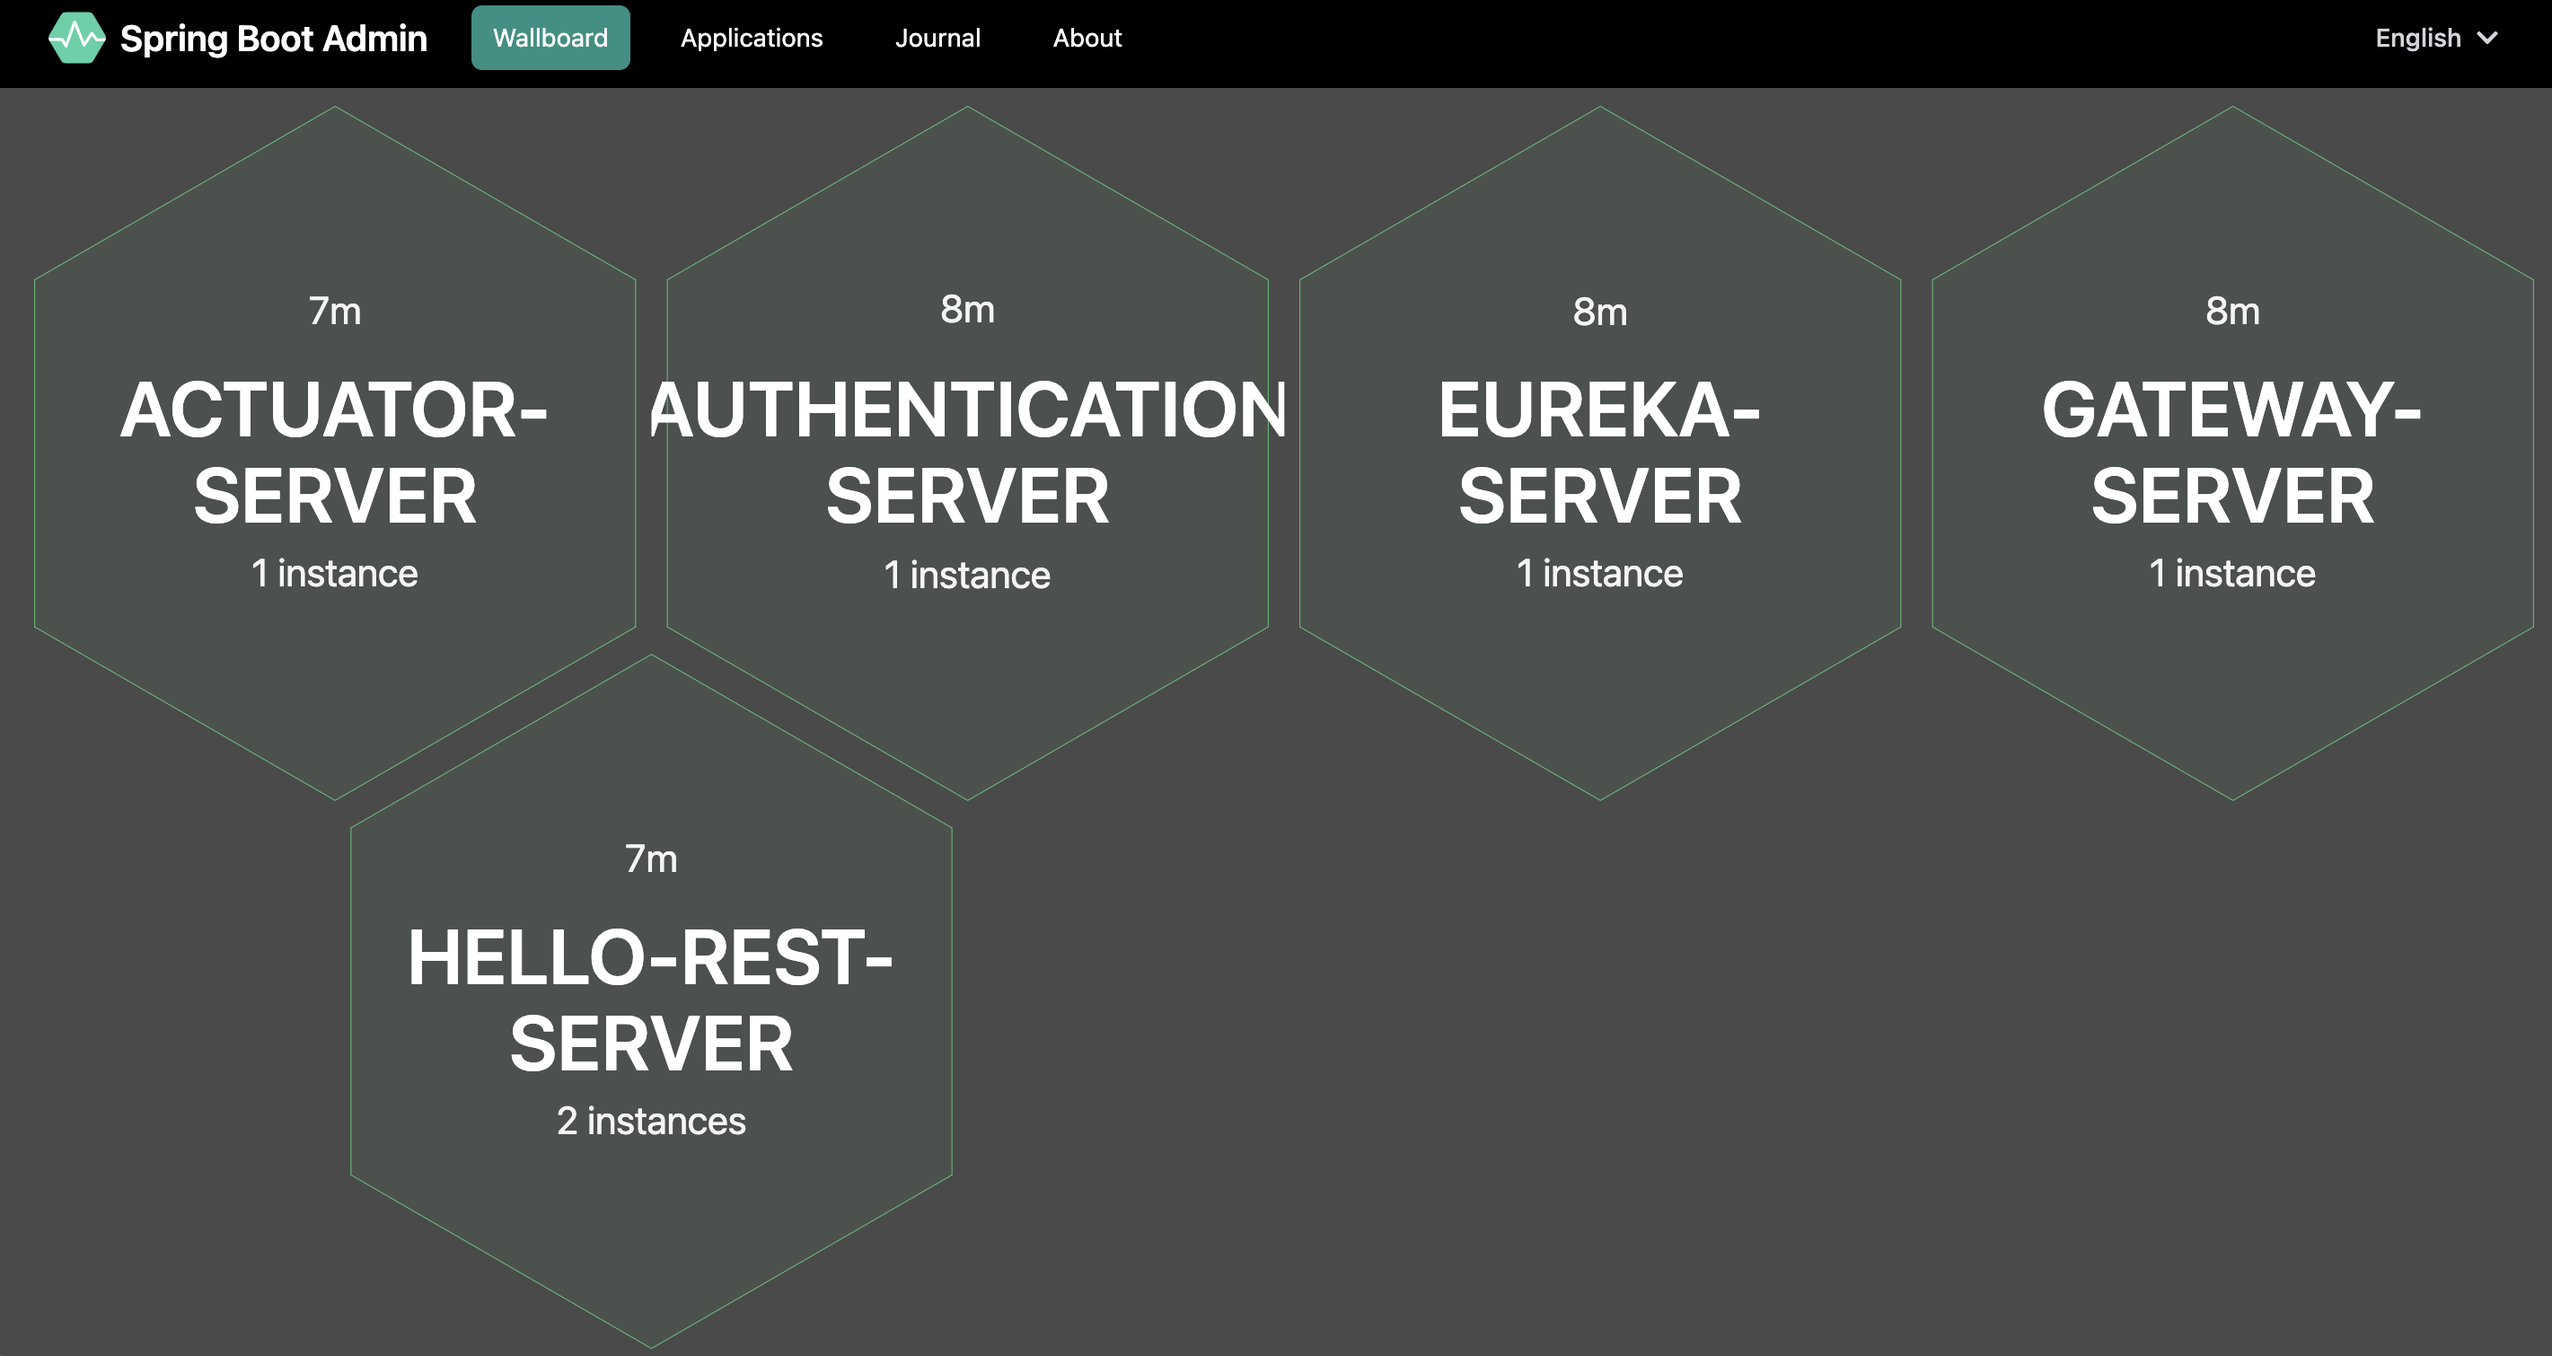
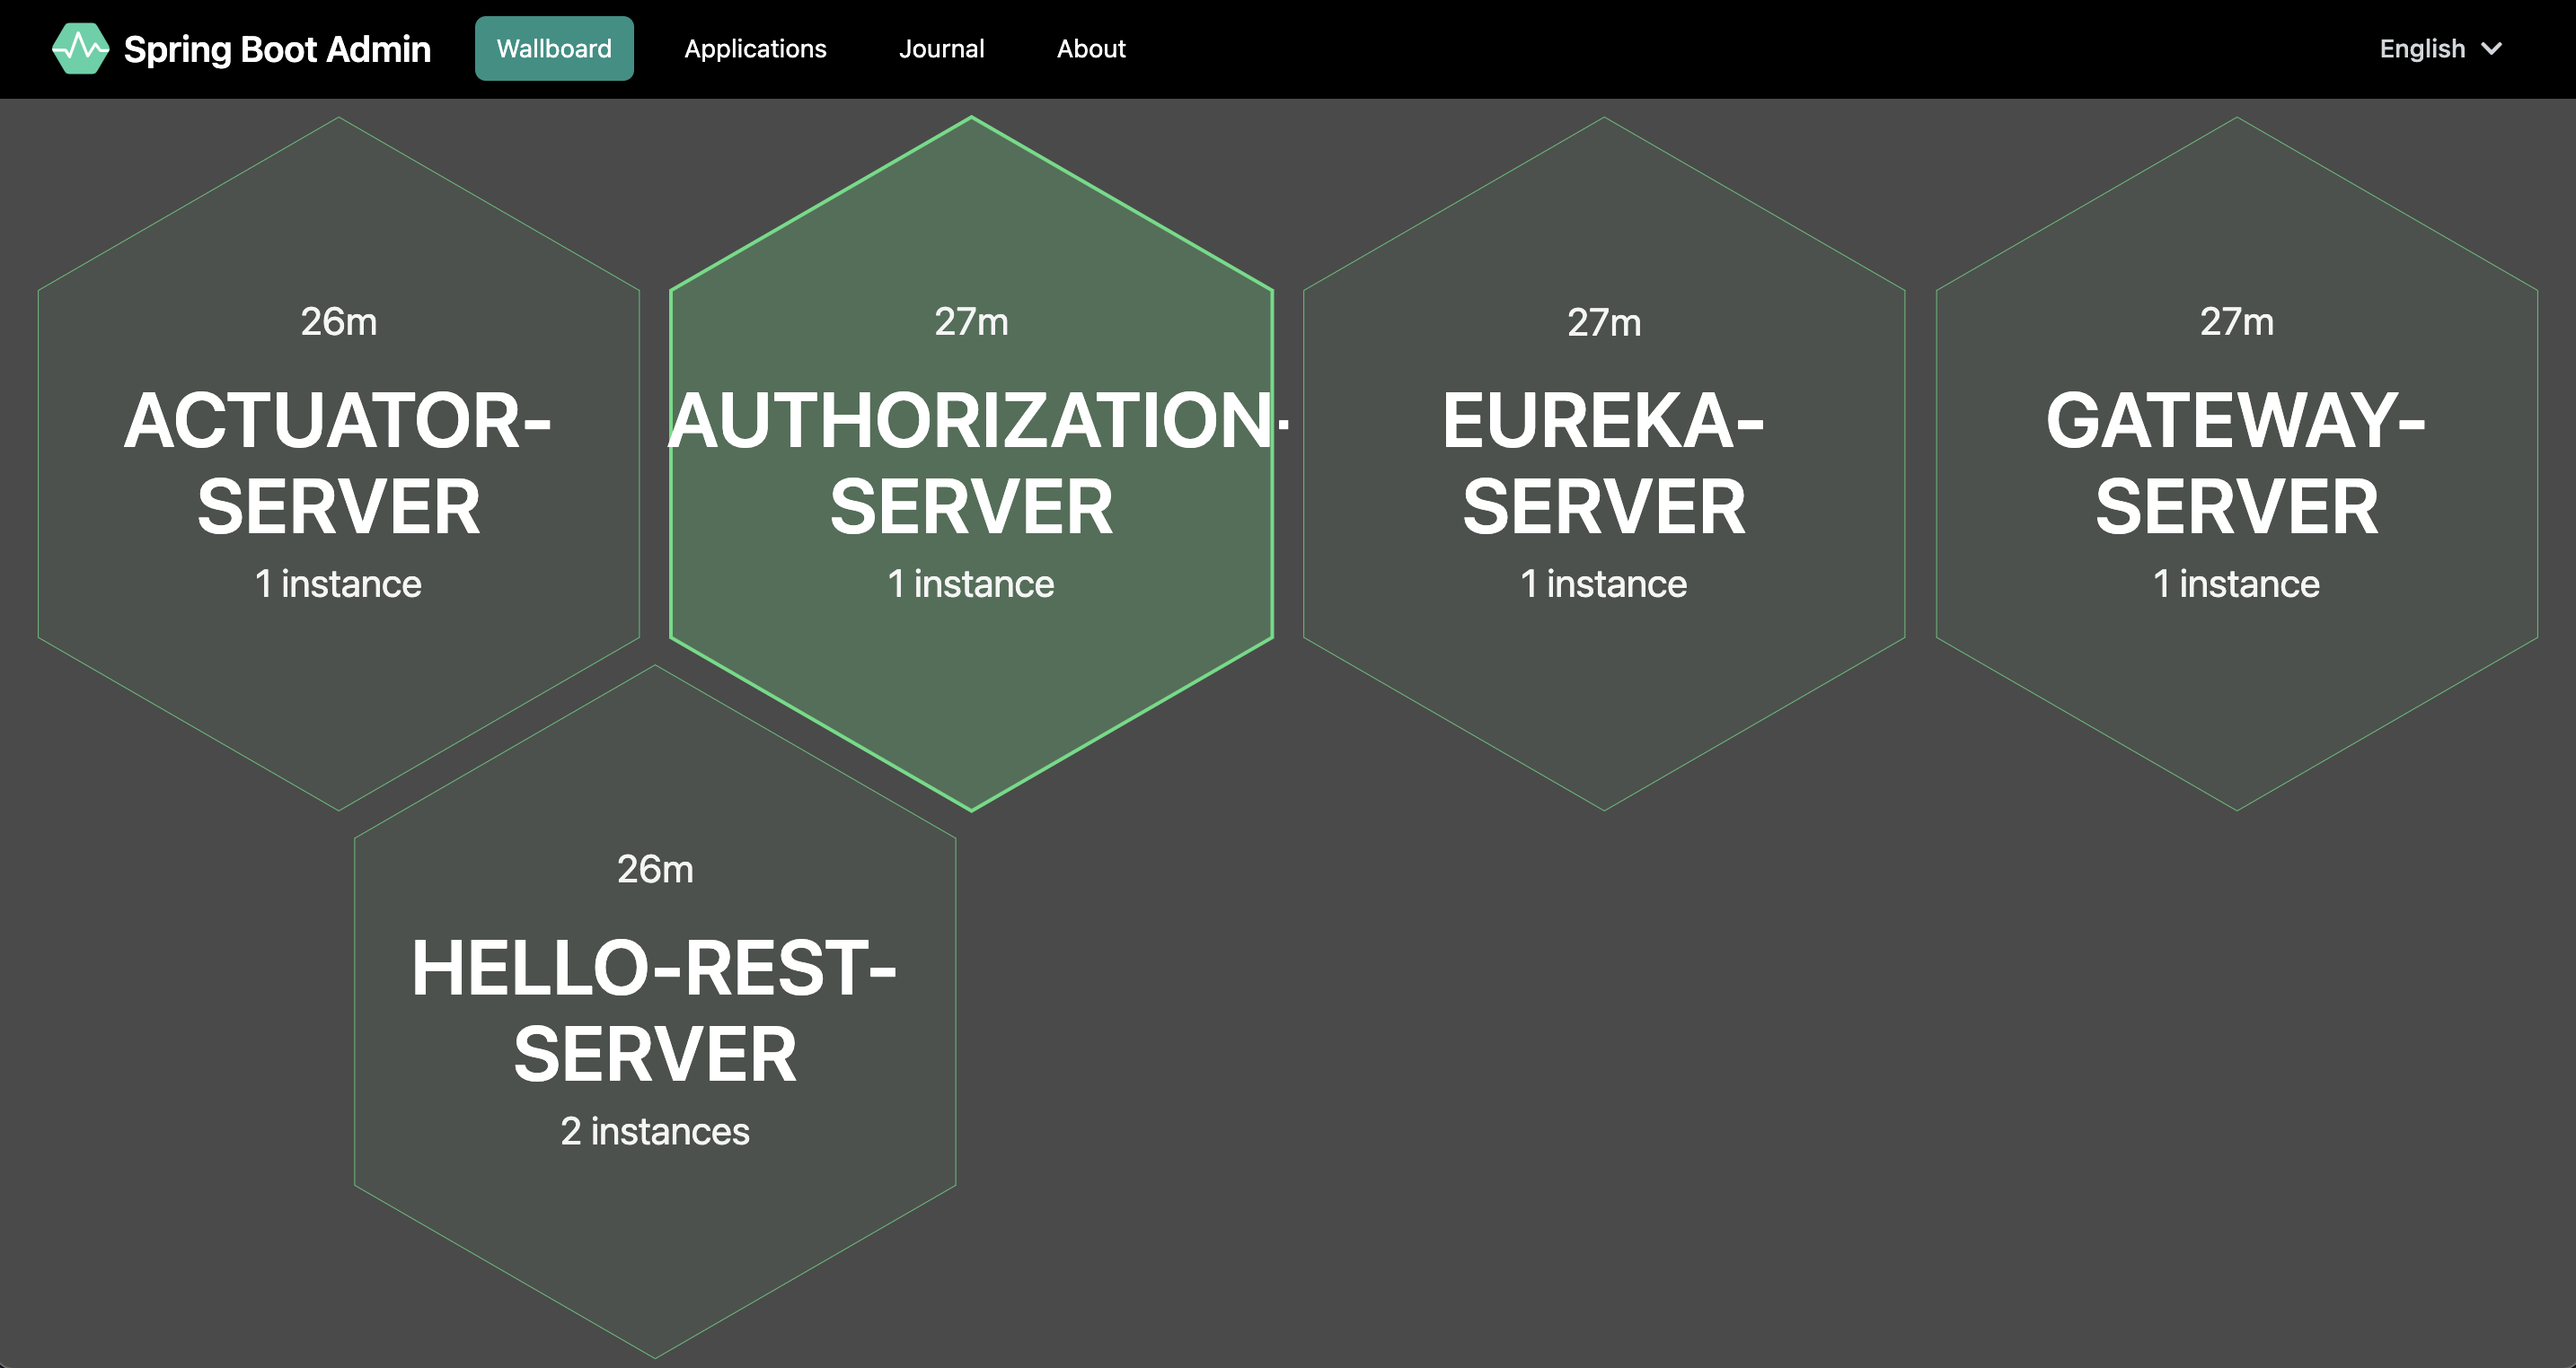
Update Authentication Server

diff --git a/authorization-server/src/main/java/com/bindstone/authorization/config/AuthorizationServerConfig.java b/authorization-server/src/main/java/com/bindstone/authorization/config/AuthorizationServerConfig.java
@@ -1,15 +1,13 @@
-package com.bindstone.authentication.config;
+package com.bindstone.authorization.config;
 
-import java.util.UUID;
-
-import com.bindstone.authentication.security.Jwks;
+import com.bindstone.authorization.security.Jwks;
 import com.nimbusds.jose.jwk.JWKSet;
 import com.nimbusds.jose.jwk.RSAKey;
 import com.nimbusds.jose.jwk.source.JWKSource;
 import com.nimbusds.jose.proc.SecurityContext;
-
 import org.springframework.context.annotation.Bean;
 import org.springframework.context.annotation.Configuration;
+import org.springframework.core.Ordered;
 import org.springframework.core.annotation.Order;
 import org.springframework.jdbc.core.JdbcTemplate;
 import org.springframework.jdbc.datasource.embedded.EmbeddedDatabase;
@@ -17,6 +15,8 @@ import org.springframework.jdbc.datasource.embedded.EmbeddedDatabaseBuilder;
 import org.springframework.jdbc.datasource.embedded.EmbeddedDatabaseType;
 import org.springframework.security.config.Customizer;
 import org.springframework.security.config.annotation.web.builders.HttpSecurity;
+import org.springframework.security.config.annotation.web.builders.WebSecurity;
+import org.springframework.security.config.annotation.web.configuration.WebSecurityCustomizer;
 import org.springframework.security.config.annotation.web.configurers.oauth2.server.resource.OAuth2ResourceServerConfigurer;
 import org.springframework.security.oauth2.core.AuthorizationGrantType;
 import org.springframework.security.oauth2.core.ClientAuthenticationMethod;
@@ -35,47 +35,39 @@ import org.springframework.security.oauth2.server.authorization.settings.Authori
 import org.springframework.security.oauth2.server.authorization.settings.ClientSettings;
 import org.springframework.security.web.SecurityFilterChain;
 import org.springframework.security.web.authentication.LoginUrlAuthenticationEntryPoint;
-import org.springframework.security.web.server.util.matcher.PathPatternParserServerWebExchangeMatcher;
 import org.springframework.security.web.util.matcher.RequestMatcher;
 
+import java.util.UUID;
 @Configuration(proxyBeanMethods = false)
 public class AuthorizationServerConfig {
 
 	@Bean
-	@Order(1)
-	public SecurityFilterChain authorizationActuatorSecurity(HttpSecurity http) throws Exception {
-
-		http
-			.securityMatcher("/actuator/**")
-			.authorizeHttpRequests((authorize) -> authorize
-			.requestMatchers("/actuator/**").permitAll()
-		);
-		return http.build();
+	public WebSecurityCustomizer webSecurityCustomizer() {
+		return (web) -> web.ignoring().requestMatchers("/actuator/**");
 	}
 
-
 	@Bean
-	@Order(2)
-	public SecurityFilterChain authorizationOauthSecurity(HttpSecurity http) throws Exception {
+	@Order(Ordered.HIGHEST_PRECEDENCE)
+	public SecurityFilterChain authorizationServerSecurityFilterChain(HttpSecurity http) throws Exception {
+		//OAuth2AuthorizationServerConfiguration.applyDefaultSecurity(http);
 
 		OAuth2AuthorizationServerConfigurer authorizationServerConfigurer =
 				new OAuth2AuthorizationServerConfigurer();
-
 		RequestMatcher endpointsMatcher = authorizationServerConfigurer
 				.getEndpointsMatcher();
 
-		http
-				.securityMatcher(endpointsMatcher)
-				.authorizeHttpRequests(authorize -> authorize
-						.anyRequest().authenticated()
-				)
-				.csrf(csrf -> csrf.ignoringRequestMatchers(endpointsMatcher))
-				.apply(authorizationServerConfigurer);
+		http.securityMatcher(endpointsMatcher)
+			.authorizeHttpRequests(authorize ->
+					authorize.anyRequest().authenticated()
+			)
+			.csrf(csrf -> csrf.ignoringRequestMatchers(endpointsMatcher))
+			.apply(authorizationServerConfigurer);
 
 		http.getConfigurer(OAuth2AuthorizationServerConfigurer.class)
-				.oidc(Customizer.withDefaults());	// Enable OpenID Connect 1.0
+			.oidc(Customizer.withDefaults());	// Enable OpenID Connect 1.0
 
-		http.exceptionHandling(exceptions ->
+		http
+			.exceptionHandling(exceptions ->
 				exceptions.authenticationEntryPoint(new LoginUrlAuthenticationEntryPoint("/login"))
 			)
 			.oauth2ResourceServer(OAuth2ResourceServerConfigurer::jwt);
@@ -91,8 +83,8 @@ public class AuthorizationServerConfig {
 				.authorizationGrantType(AuthorizationGrantType.AUTHORIZATION_CODE)
 				.authorizationGrantType(AuthorizationGrantType.REFRESH_TOKEN)
 				.authorizationGrantType(AuthorizationGrantType.CLIENT_CREDENTIALS)
-				.redirectUri("http://127.0.0.1:8080/login/oauth2/code/messaging-client-oidc")
-				.redirectUri("http://127.0.0.1:8080/authorized")
+				.redirectUri("http://127.0.0.1:8893/login/oauth2/code/messaging-client-oidc")
+				.redirectUri("http://127.0.0.1:8893/authorized")
 				.scope(OidcScopes.OPENID)
 				.scope(OidcScopes.PROFILE)
 				.scope("message.read")
@@ -136,6 +128,7 @@ public class AuthorizationServerConfig {
 
 	@Bean
 	public EmbeddedDatabase embeddedDatabase() {
+
 		return new EmbeddedDatabaseBuilder()
 				.generateUniqueName(true)
 				.setType(EmbeddedDatabaseType.H2)
@@ -145,4 +138,5 @@ public class AuthorizationServerConfig {
 				.addScript("org/springframework/security/oauth2/server/authorization/client/oauth2-registered-client-schema.sql")
 				.build();
 	}
+
 }

diff --git a/gateway-server/src/main/java/com/bindstone/gatewayserver/security/SecurityAuthorizationConfig.java b/gateway-server/src/main/java/com/bindstone/gatewayserver/security/SecurityAuthorizationConfig.java
@@ -11,7 +11,7 @@ import org.springframework.security.web.server.util.matcher.PathPatternParserSer
 import static org.springframework.security.config.Customizer.withDefaults;
 
 @Configuration
-public class SecurityAuthorisationConfig {
+public class SecurityAuthorizationConfig {
 
     @Bean
     @Order(Ordered.HIGHEST_PRECEDENCE)
@@ -27,10 +27,20 @@ public class SecurityAuthorisationConfig {
     @Bean
     SecurityWebFilterChain eurekaResourceSecurity(ServerHttpSecurity http) {
          http
-         .securityMatcher(new PathPatternParserServerWebExchangeMatcher("/eureka/**"))
-         .authorizeExchange((exchanges) -> exchanges
-         .anyExchange().permitAll()
-         );
+             .securityMatcher(new PathPatternParserServerWebExchangeMatcher("/eureka/**"))
+             .authorizeExchange((exchanges) -> exchanges
+                    .anyExchange().permitAll()
+             );
+        return http.build();
+    }
+
+    @Bean
+    SecurityWebFilterChain authorizationSecurity(ServerHttpSecurity http) {
+        http
+            .securityMatcher(new PathPatternParserServerWebExchangeMatcher("/authorization-service/**"))
+            .authorizeExchange((exchanges) -> exchanges
+                    .anyExchange().permitAll()
+            );
         return http.build();
     }
 
@@ -67,10 +77,10 @@ public class SecurityAuthorisationConfig {
     @Bean
     SecurityWebFilterChain actuatorLocalSecurity(ServerHttpSecurity http) {
         http
-                .securityMatcher(new PathPatternParserServerWebExchangeMatcher("/actuator/**"))
-                .authorizeExchange((exchanges) -> exchanges
-                        .anyExchange().permitAll()
-                );
+            .securityMatcher(new PathPatternParserServerWebExchangeMatcher("/actuator/**"))
+            .authorizeExchange((exchanges) -> exchanges
+                    .anyExchange().permitAll()
+            );
         return http.build();
     }
 

diff --git a/authorization-server/src/main/java/com/bindstone/authorization/security/Jwks.java b/authorization-server/src/main/java/com/bindstone/authorization/security/Jwks.java
@@ -1,18 +1,17 @@
-package com.bindstone.authentication.security;
+package com.bindstone.authorization.security;
 
+import com.nimbusds.jose.jwk.Curve;
+import com.nimbusds.jose.jwk.ECKey;
+import com.nimbusds.jose.jwk.OctetSequenceKey;
+import com.nimbusds.jose.jwk.RSAKey;
+
+import javax.crypto.SecretKey;
 import java.security.KeyPair;
 import java.security.interfaces.ECPrivateKey;
 import java.security.interfaces.ECPublicKey;
 import java.security.interfaces.RSAPrivateKey;
 import java.security.interfaces.RSAPublicKey;
 import java.util.UUID;
-
-import javax.crypto.SecretKey;
-
-import com.nimbusds.jose.jwk.Curve;
-import com.nimbusds.jose.jwk.ECKey;
-import com.nimbusds.jose.jwk.OctetSequenceKey;
-import com.nimbusds.jose.jwk.RSAKey;
 
 public final class Jwks {
 
@@ -23,12 +22,11 @@ public final class Jwks {
 		KeyPair keyPair = KeyGeneratorUtils.generateRsaKey();
 		RSAPublicKey publicKey = (RSAPublicKey) keyPair.getPublic();
 		RSAPrivateKey privateKey = (RSAPrivateKey) keyPair.getPrivate();
-		// @formatter:off
+
 		return new RSAKey.Builder(publicKey)
 				.privateKey(privateKey)
 				.keyID(UUID.randomUUID().toString())
 				.build();
-		// @formatter:on
 	}
 
 	public static ECKey generateEc() {
@@ -36,20 +34,18 @@ public final class Jwks {
 		ECPublicKey publicKey = (ECPublicKey) keyPair.getPublic();
 		ECPrivateKey privateKey = (ECPrivateKey) keyPair.getPrivate();
 		Curve curve = Curve.forECParameterSpec(publicKey.getParams());
-		// @formatter:off
+
 		return new ECKey.Builder(curve, publicKey)
 				.privateKey(privateKey)
 				.keyID(UUID.randomUUID().toString())
 				.build();
-		// @formatter:on
 	}
 
 	public static OctetSequenceKey generateSecret() {
 		SecretKey secretKey = KeyGeneratorUtils.generateSecretKey();
-		// @formatter:off
+
 		return new OctetSequenceKey.Builder(secretKey)
 				.keyID(UUID.randomUUID().toString())
 				.build();
-		// @formatter:on
 	}
 }

diff --git a/authorization-server/src/main/java/com/bindstone/authorization/config/DefaultSecurityConfig.java b/authorization-server/src/main/java/com/bindstone/authorization/config/DefaultSecurityConfig.java
@@ -1,4 +1,4 @@
-package com.bindstone.authentication.config;
+package com.bindstone.authorization.config;
 
 import org.springframework.context.annotation.Bean;
 import org.springframework.context.annotation.Configuration;
@@ -11,6 +11,7 @@ import org.springframework.security.provisioning.InMemoryUserDetailsManager;
 import org.springframework.security.web.SecurityFilterChain;
 
 import static org.springframework.security.config.Customizer.withDefaults;
+
 @EnableWebSecurity
 @Configuration(proxyBeanMethods = false)
 public class DefaultSecurityConfig {

diff --git a/authorization-server/src/main/java/com/bindstone/authorization/security/KeyGeneratorUtils.java b/authorization-server/src/main/java/com/bindstone/authorization/security/KeyGeneratorUtils.java
@@ -1,5 +1,7 @@
-package com.bindstone.authentication.security;
+package com.bindstone.authorization.security;
 
+import javax.crypto.KeyGenerator;
+import javax.crypto.SecretKey;
 import java.math.BigInteger;
 import java.security.KeyPair;
 import java.security.KeyPairGenerator;
@@ -8,8 +10,6 @@ import java.security.spec.ECParameterSpec;
 import java.security.spec.ECPoint;
 import java.security.spec.EllipticCurve;
 
-import javax.crypto.KeyGenerator;
-import javax.crypto.SecretKey;
 final class KeyGeneratorUtils {
 
 	private KeyGeneratorUtils() {

diff --git a/authorization-server/src/main/java/com/bindstone/authorization/AuthorizationServerApplication.java b/authorization-server/src/main/java/com/bindstone/authorization/AuthorizationServerApplication.java
@@ -1,12 +1,11 @@
-package com.bindstone.authentication;
+package com.bindstone.authorization;
 
 import org.springframework.boot.SpringApplication;
 import org.springframework.boot.autoconfigure.SpringBootApplication;
 
 @SpringBootApplication
-public class AuthenticationServerApplication {
+public class AuthorizationServerApplication {
 	public static void main(String[] args) {
-		SpringApplication.run(AuthenticationServerApplication.class, args);
+		SpringApplication.run(AuthorizationServerApplication.class, args);
 	}
-
 }

diff --git a/authorization-server/src/test/java/com/bindstone/authorization/AuthorizationServerApplicationTests.java b/authorization-server/src/test/java/com/bindstone/authorization/AuthorizationServerApplicationTests.java
@@ -1,10 +1,10 @@
-package com.bindstone.authentication;
+package com.bindstone.authorization;
 
 import org.junit.jupiter.api.Test;
 import org.springframework.boot.test.context.SpringBootTest;
 
 @SpringBootTest
-class AuthenticationServerApplicationTests {
+class AuthorizationServerApplicationTests {
 
 	@Test
 	void contextLoads() {
